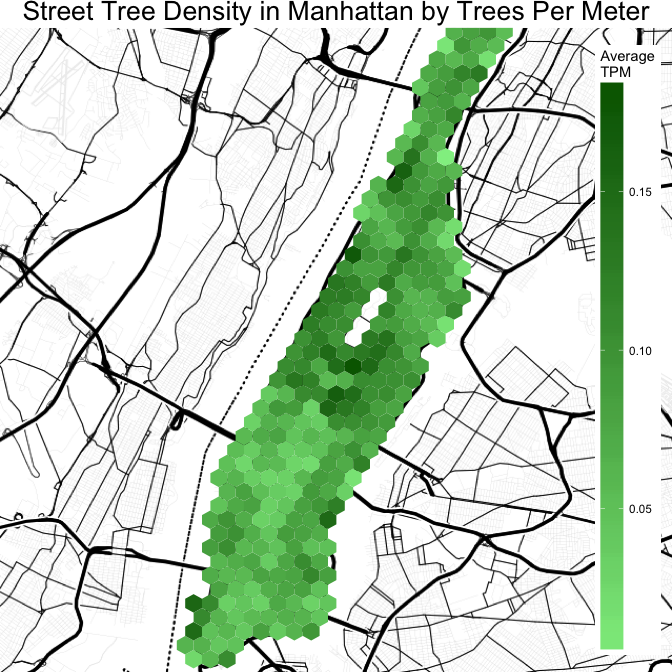
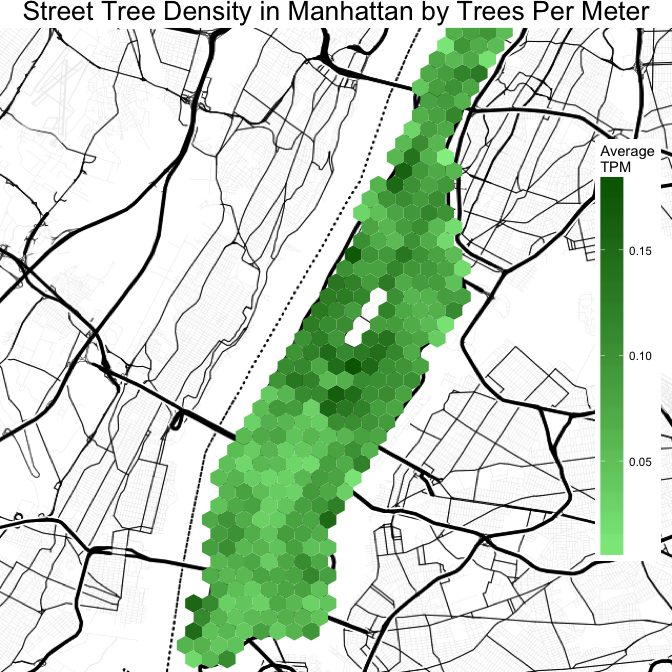
blog corrections

diff --git a/rmd/Revised/Revised.md b/rmd/Revised/Revised.md
@@ -445,7 +445,7 @@ print(cbind("rank" = 1:25, head(blocks[order(blocks$tpm, decreasing = TRUE), c(3
 ##    25       Broadway         W 149th St    W 150th St    23 0.2907425
 ```
 
-The highest TPM is the stretch on Broadway between W 73rd and W 74th St. What seems like an unlikely block to have the highest concentration of trees in Manhattan, actually hosts a mini-nursery through the median. In fact, most of Broadway running through the Upper West Side up to 168th St boasts these [Broadway Malls](). 
+The highest TPM is the stretch on Broadway between W 73rd and W 74th St. What seems like an unlikely block for Manhattan's highest concentration of street trees actually hosts a mini-nursery through the median. In fact, most of Broadway running through the Upper West Side up to 168th St boasts these [Broadway Malls](). 
 
 <iframe src="https://www.google.com/maps/embed?pb=!1m0!3m2!1sen!2sus!4v1468104363746!6m8!1m7!1s-TUZoBt_3ZhIfBwWrO2nqg!2m2!1d40.78015513512755!2d-73.98145567196616!3f221.68876822150597!4f-8.008538271073448!5f0.7820865974627469" width="800" height="600" frameborder="0" style="border:0" allowfullscreen></iframe>
 
@@ -494,7 +494,7 @@ ggmap(map.manh) +
     legend.position = c(1,.5),
     legend.justification = c(1, .5),
     plot.title = element_text(size = 20),
-    legend.key.height = unit(3, "cm")
+    legend.key.height = unit(2, "cm")
   ) +
   scale_fill_gradient(low="lightgreen", high="darkgreen", name = "Average\nTPM")
 ```
